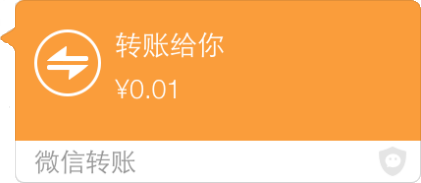
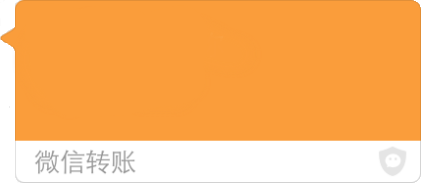
talk UI

Changed region(s): [[0.0618, 0.1366, 0.247, 0.5464], [0.2779, 0.1639, 0.5558, 0.3279], [0.2779, 0.4372, 0.4323, 0.5464]]

diff --git a/public/static/screen.js b/public/static/screen.js
@@ -481,7 +481,10 @@ function l (a) {
 					case 'pay':
 						set_avatar(t.avatar, t.align, top);
 						var pic_width = 430;
+						var fontsize = 28;
 						var words = ('send' == t.forward) ? '转账给你' : '已收钱';
+						if('right' == t.align && 'send' == t.forward)
+							words = '转账给' + this.config.wx_talk_title;
 						var icon = '/static/imgs/phone/wx-pay-'+t.forward+'.png';
 						
 						if('left' == t.align) {
@@ -490,12 +493,22 @@ function l (a) {
 							this.screen.set_image('pay', 'bg', '/static/imgs/phone/wx-pay-left.png', left, top);
 							// icon
 							this.screen.set_image('pay-icon', 'bg', icon, left + 35, top + 30);
+							// 文案
+							this.screen.set_text('bg', words, fontsize, '#FFF', left + 112, top + 55, {align:'left'});
+							// 金额
+							this.screen.set_text('bg', '￥' + t.money, fontsize, '#FFF', left + 112, top + 100, {align:'left'});
+
 						} else {
 							// 背景
 							var left = bg_width - padding * 2 - avatar_side - pic_width + 5;
 							this.screen.set_image('pay', 'bg', '/static/imgs/phone/wx-pay-right.png',left, top);
 							// icon
 							this.screen.set_image('pay-icon', 'bg', icon, left + 21, top + 30);
+							// 文案
+							this.screen.set_text('bg', words, fontsize, '#FFF', left + 105, top + 55, {align:'left'});
+							// 金额
+							this.screen.set_text('bg', '￥' + t.money, fontsize, '#FFF', left + 105, top + 100, {align:'left'});
+
 						}
 
 						top += (186 + 30);
